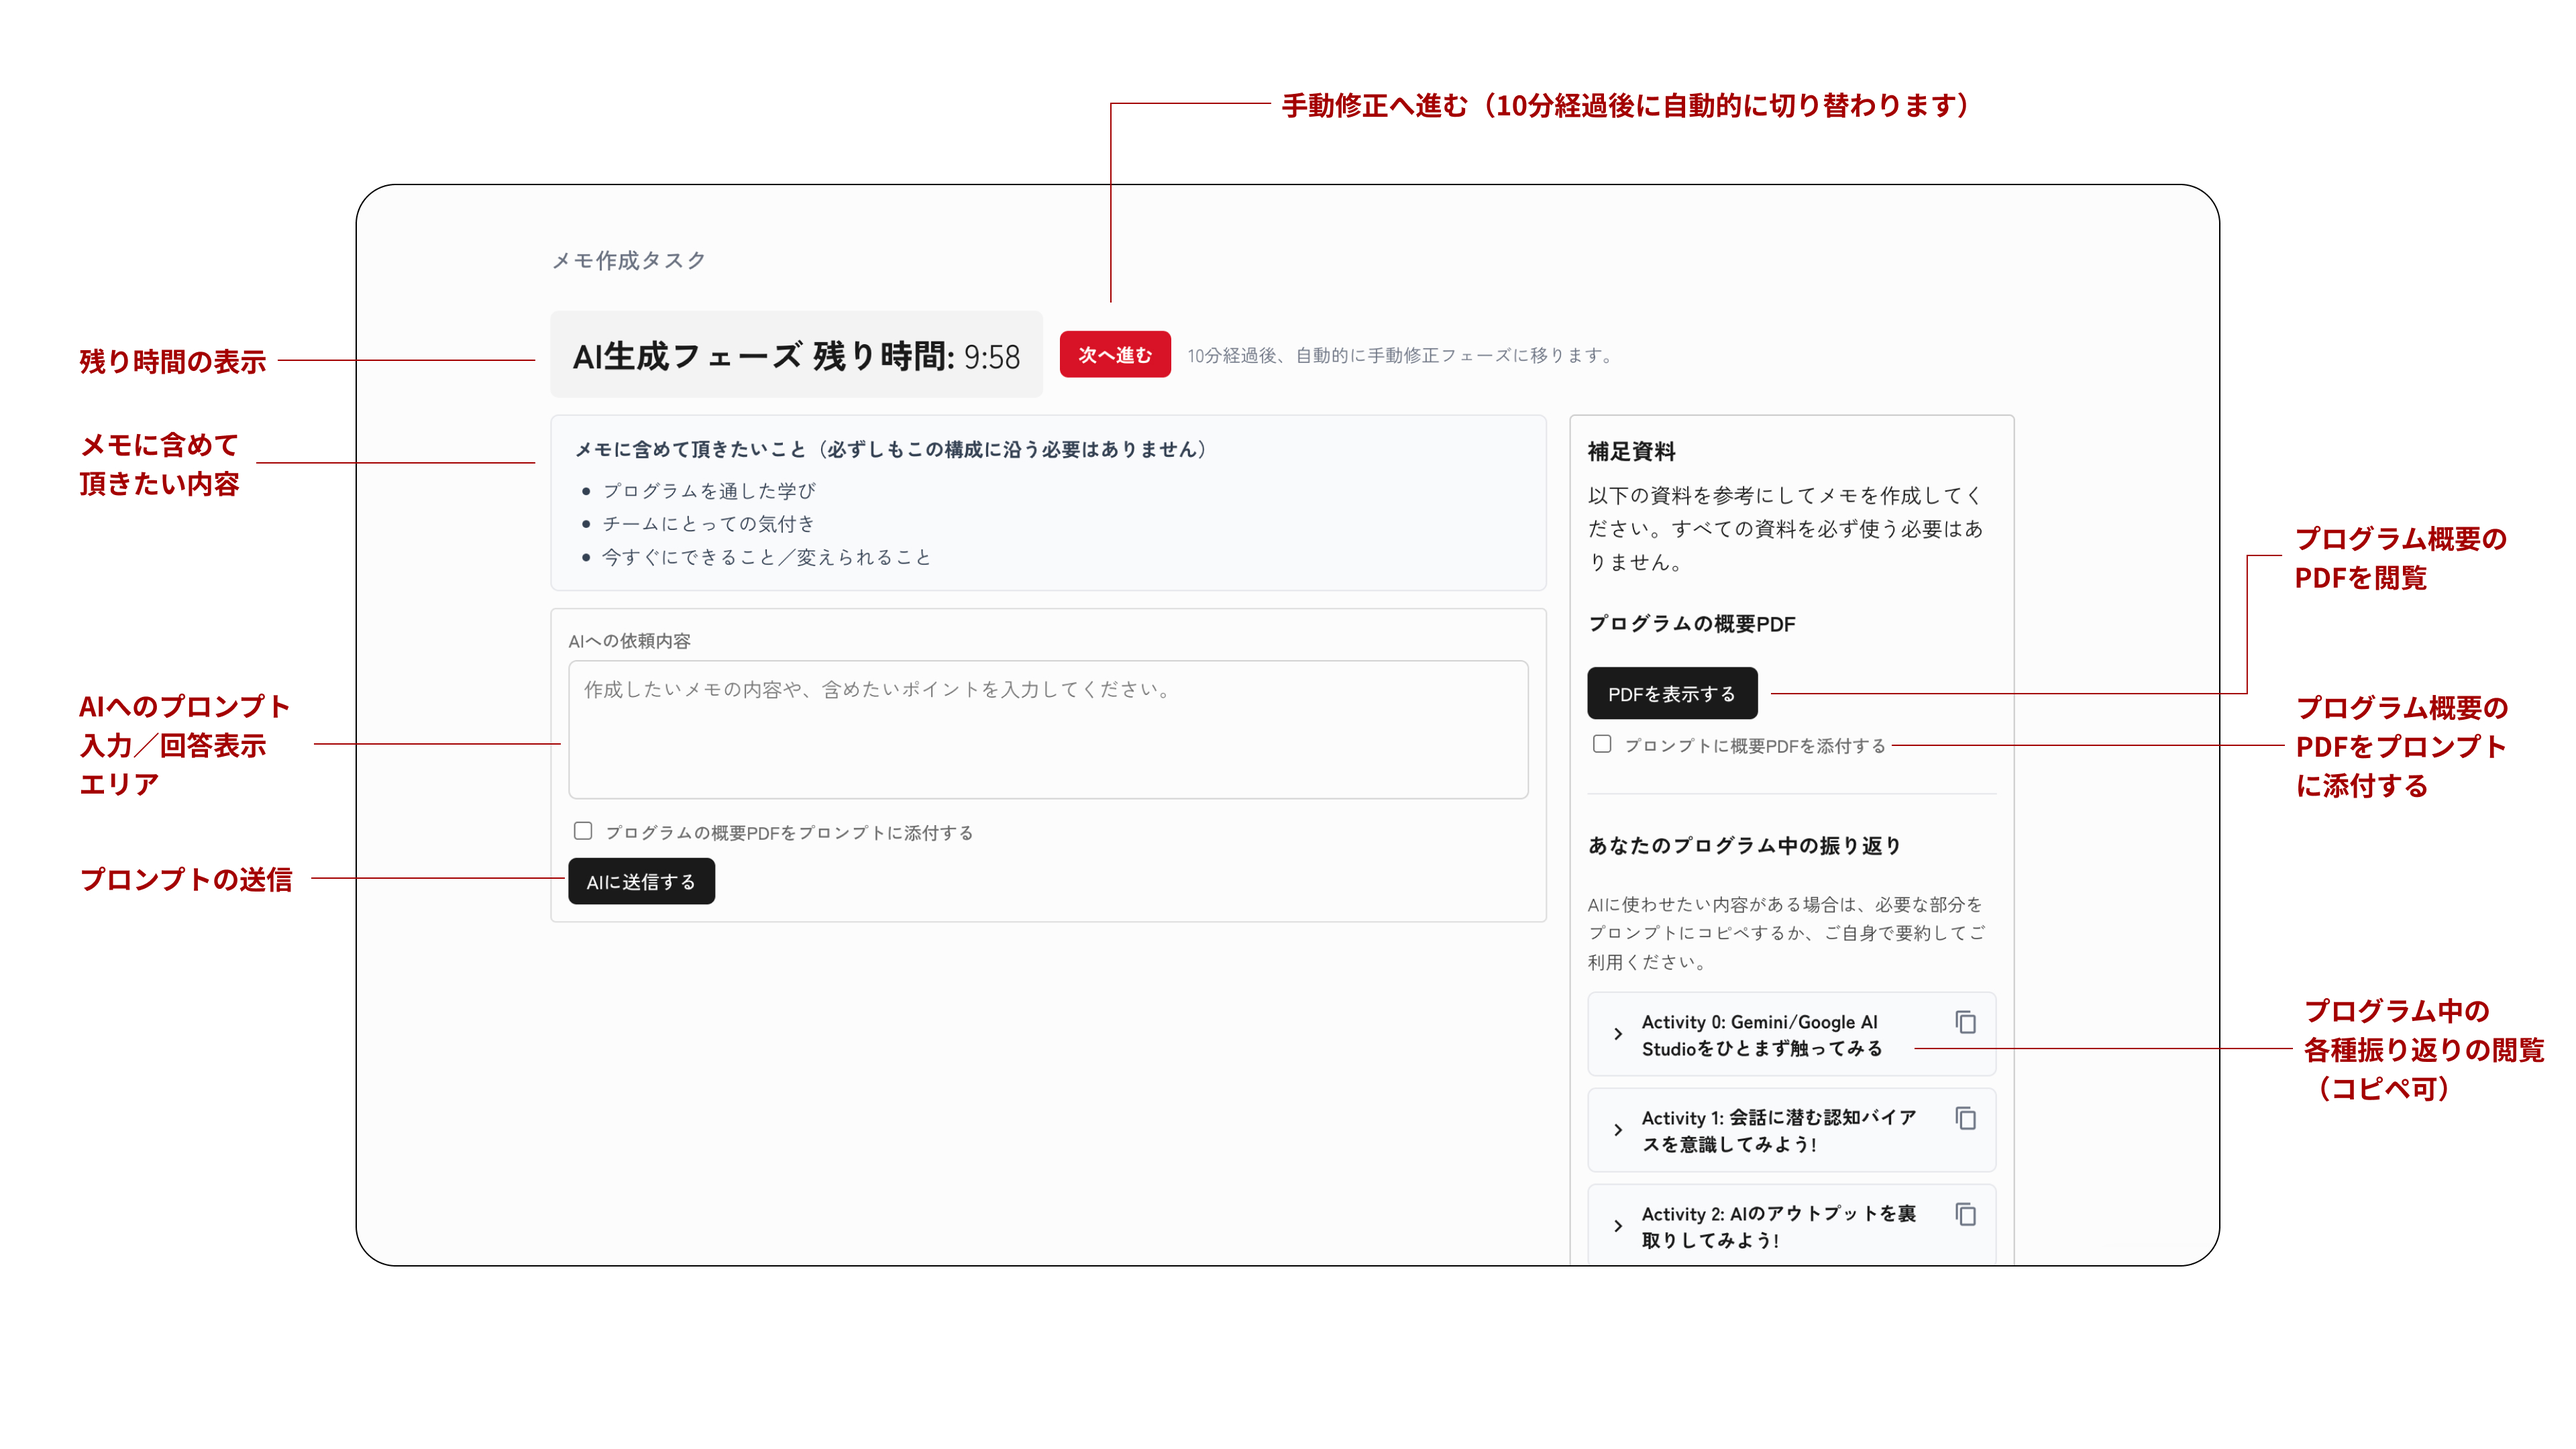
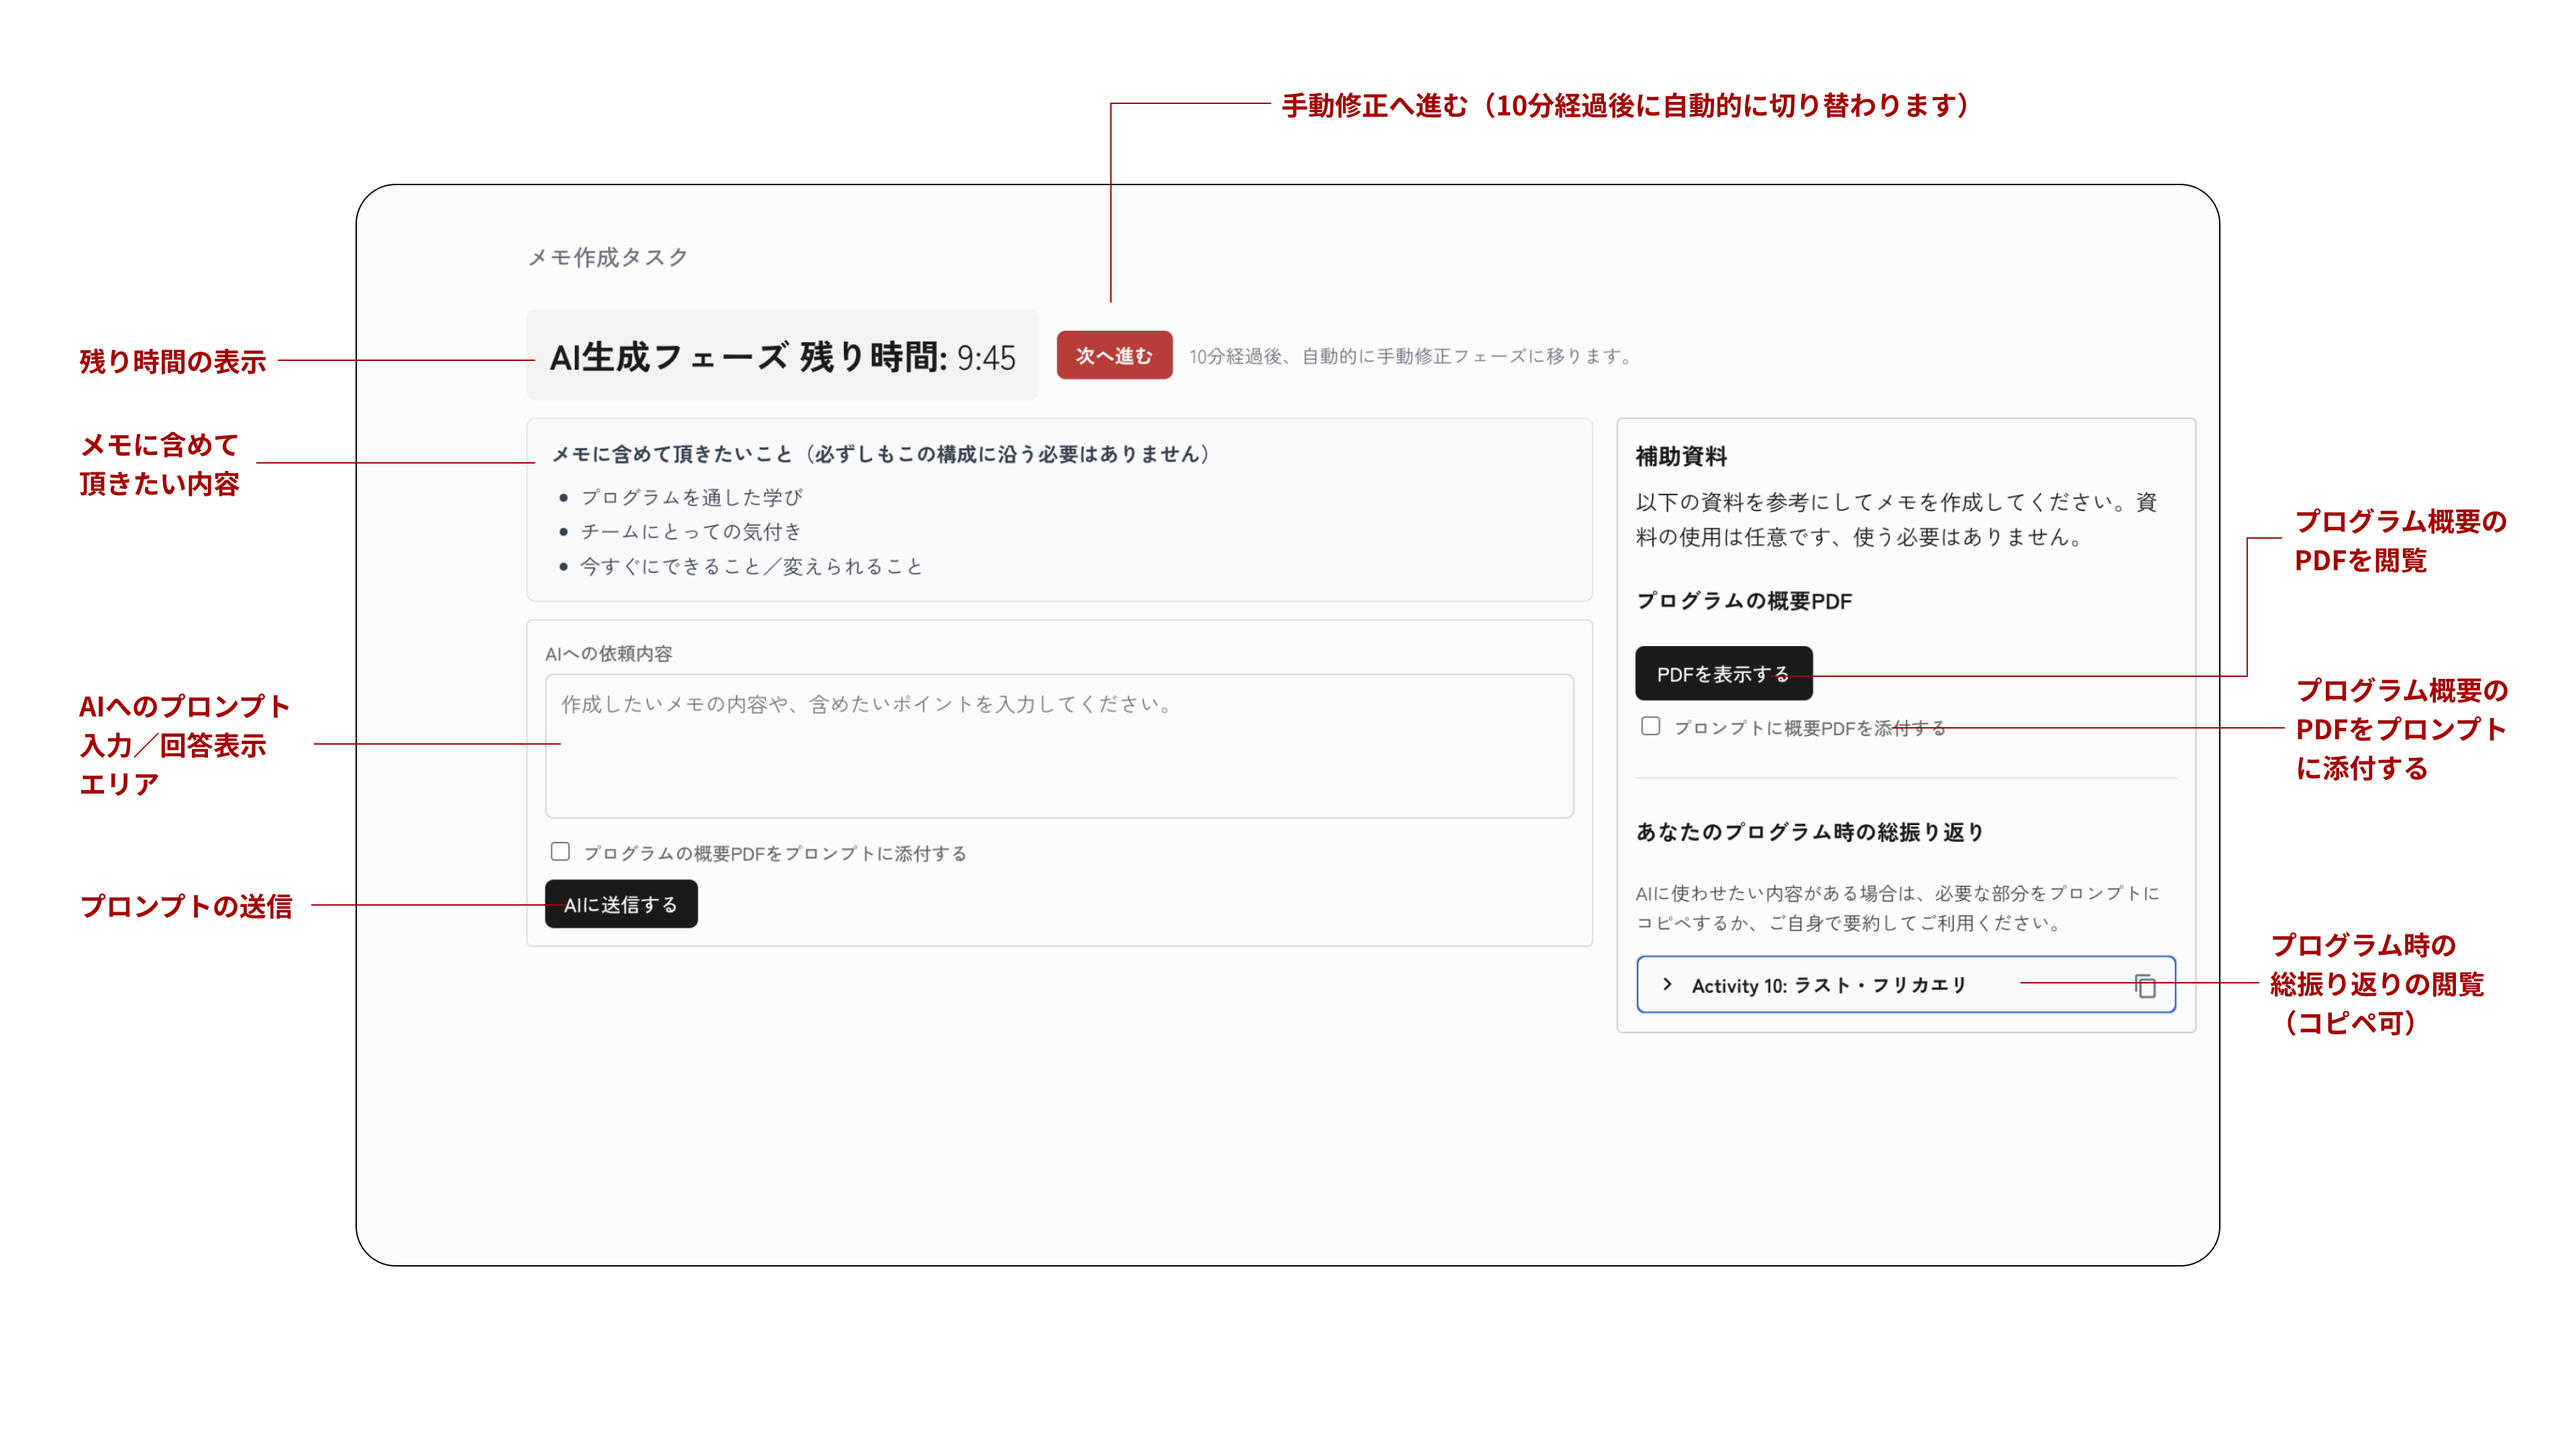
tweaking JP explanation text

diff --git a/src/components/ConsentScreen.tsx b/src/components/ConsentScreen.tsx
@@ -14,17 +14,17 @@ const READER_ITEMS = [
   "メモの作成者を知っている可能性があること及び私の回答が個人を特定できる形で作成者に共有されることはないことを理解しました。",
   "即時アンケートに回答すること、および2週間後のフォローアップアンケートに関する連絡を受けることを理解しました。",
   "第2セッション終了後にフォローアップインタビューに招待される可能性があり、参加するかどうかは自由に選択できることを理解しました。",
-  "本研究のデータが人事評価に使用されないことを理解しました。",
+  "本研究のデータが人事評価に使用されることは無いことを理解しました。",
   "本研究に参加することに同意します。",
 ];
 
 const WRITER_ITEMS = [
   "Participant Information Sheetを読み、内容を理解しました。",
   "研究への参加は任意であることを理解しました。",
-  "私が作成するメモが、選定された同僚に共有されることを理解しました。",
+  "私が作成するメモが、実験の一貫として記名で社内メンバーに共有されることを理解しました。",
   "執筆中の入力データ(キー入力のログ、執筆中に追加・削除された語句のカウント)が収集されることを理解しました。",
   "AIへのプロンプトおよびAIからの応答が収集される可能性があることを理解しました。",
-  "本研究のデータが人事評価に使用されないことを理解しました。",
+  "本研究のデータが人事評価に使用されることは無いことを理解しました。",
   "メモ作成時に、AIプロトタイピングプログラムでの私の振り返りが補助資料として提示されることを許可します。",
   "本研究に参加することに同意します。",
 ];
